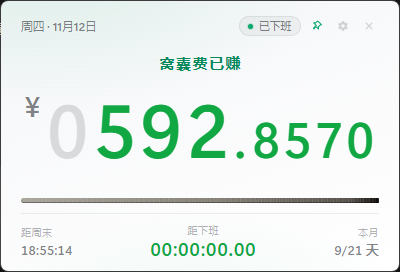
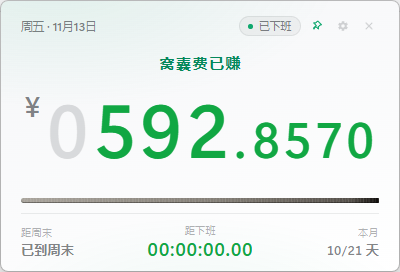
docs: 去掉背景不透明的说明与截图
README 删除「背景不透明度」整节与功能列表中的提及，设置页截图与总览图按新界面重拍。

diff --git a/README.md b/README.md
@@ -33,19 +33,6 @@
 
 月薪、上下班时间、工作日、主题、关闭行为、窗口置顶、开机自启。底部实时显示本月工作日、日薪、时薪。
 
-## 背景不透明度
-
-设置页「外观与启动 → 背景」可以拖到 35%–100%。**只影响背景**：数字、文案、倒计时始终不透明。
-
-![半透明背景](shots/opacity-glass.png)
-
-实现上没有用系统毛玻璃——WebView2 的窗口模式不支持逐像素透明，压测过三种背景（桌面 / 纯黑 / 纯白），卡片像素完全不变，说明底下始终是 WebView2 自己画的不透明底。所以走的是「自己拍自己背后」：
-
-1. 打开透明后，用 `SetWindowDisplayAffinity(WDA_EXCLUDEFROMCAPTURE)` 把组件从截图里排除；
-2. 每 1.5 秒抓一次窗口所在区域的屏幕画面，缩小再放大做廉价模糊，存成 `%APPDATA%\WageClock\backdrop.png`；
-3. 卡片底色按滑块值叠在这张模糊图上，文字仍画在最上层。
-
-因此背景是「1.5 秒刷新一次的模糊快照」，不是实时的系统级透明；背后的窗口变化会有约一秒延迟。**副作用**：透明状态下组件不会出现在录屏和截图里（这是能拍到背后的前提），调到 100% 立刻恢复。
 ## 计算口径
 
 ```
